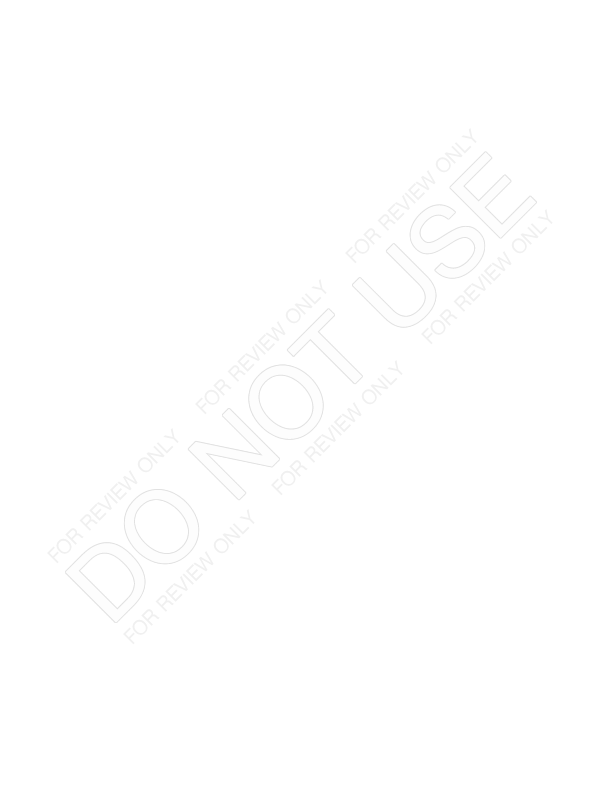
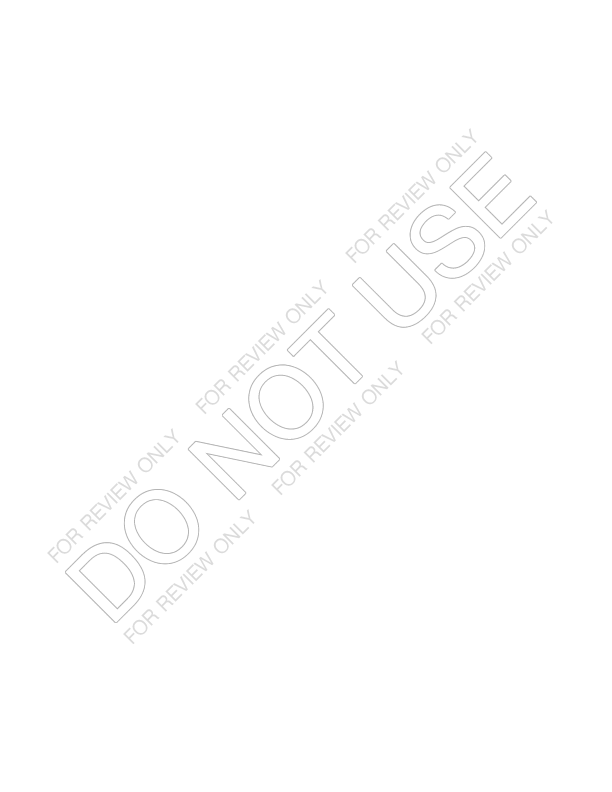
Updates to label styles to fix text getting cut off. Replaced watermark image.

diff --git a/fid-web/src/main/webapp/style/pageStyles/procedureDefinitionPrint.css b/fid-web/src/main/webapp/style/pageStyles/procedureDefinitionPrint.css
@@ -128,7 +128,6 @@ h3 {
 .metadata table {
 	float: right;
 	width: 40%;
-	/*height: 95px;*/
 	font-size: 11px;
 }
 .metadata td, .metadata th {
@@ -248,6 +247,11 @@ td.revision > span {
 	margin: 10px 20px;
 	float: none;
 	display: inline-block;
+}
+
+.note input {
+	padding: 0;
+	margin-right: 6px;
 }
 
 
